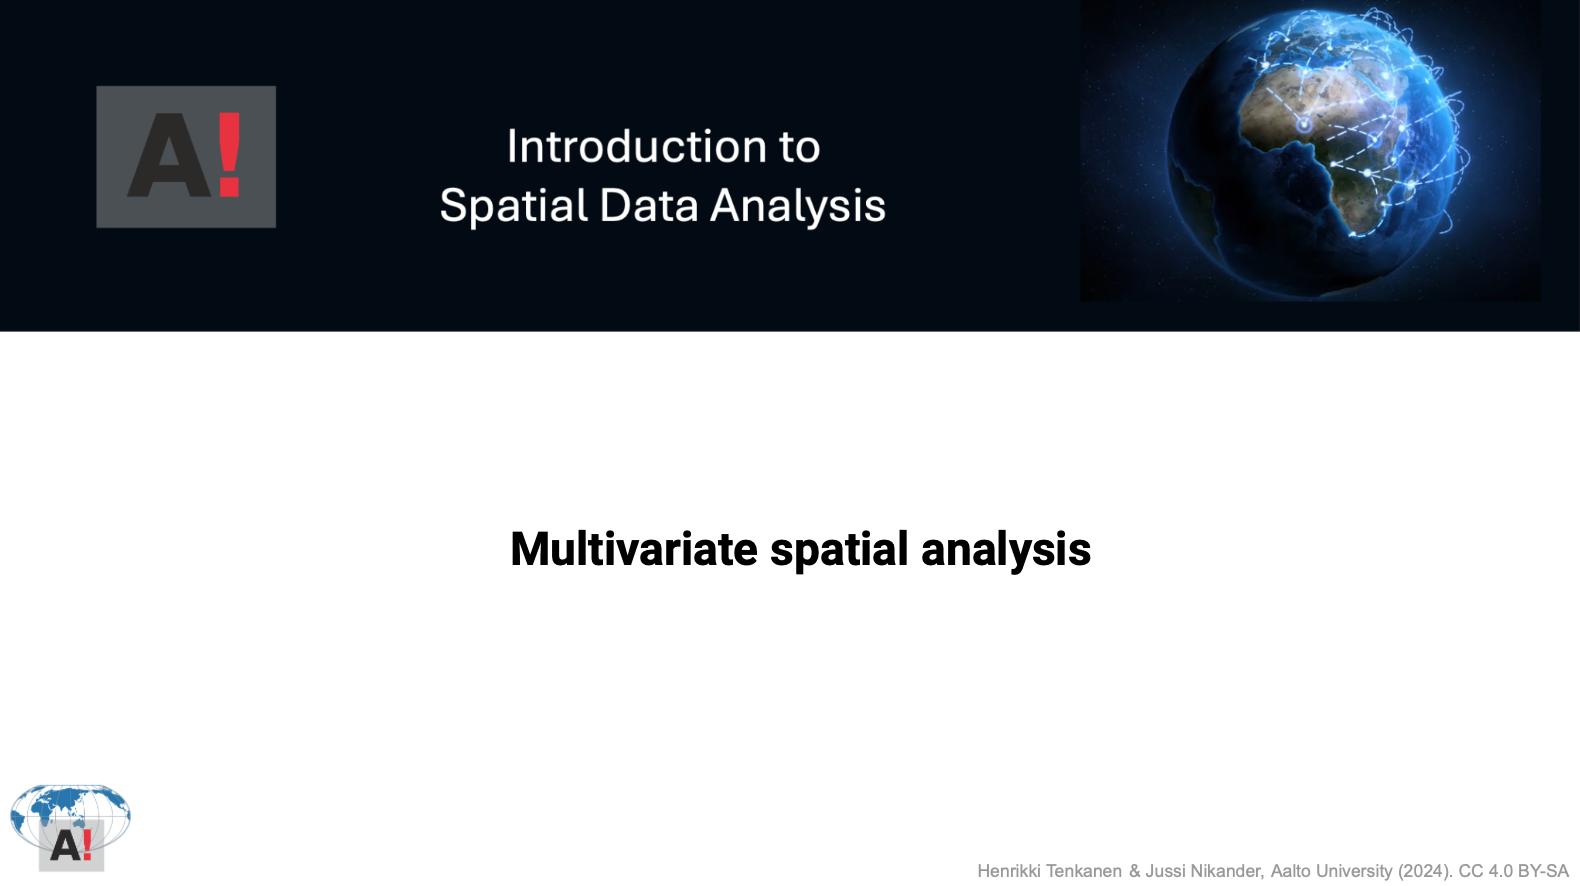
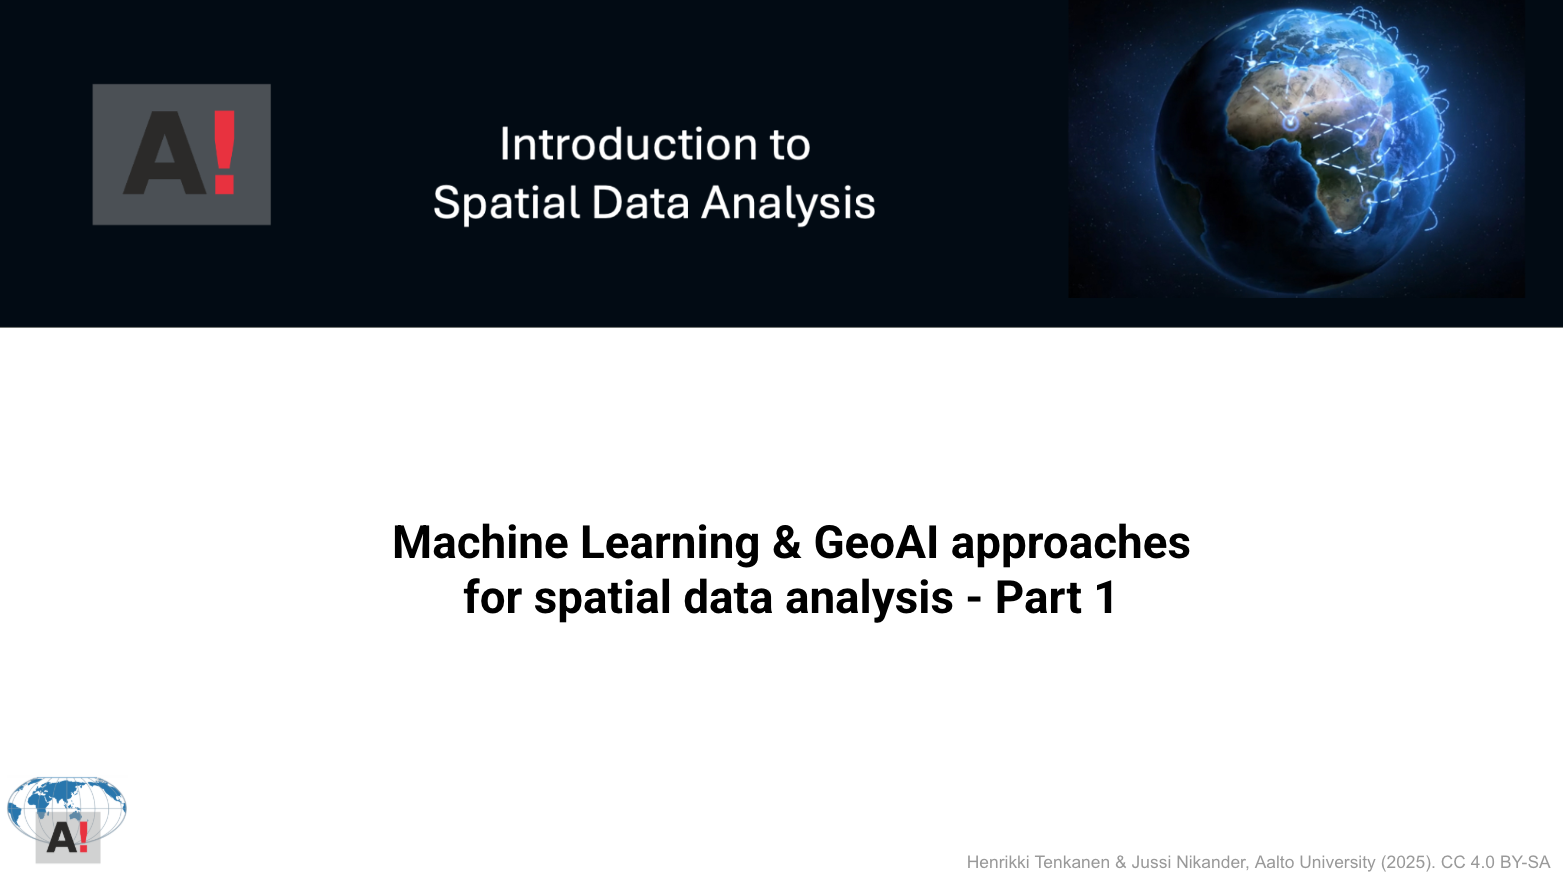
Add L10.1 video

diff --git a/source/lessons/L10/overview.rst b/source/lessons/L10/overview.rst
@@ -9,15 +9,16 @@ In this week, we will learn about:
 Lesson videos
 -------------
 
-To be added.
+.. admonition:: Lesson 10.1 - Machine Learning & GeoAI approaches for spatial data analysis (Part 1)
 
-.. .. admonition:: Lesson 10.1 - Machine Learning & GeoAI approaches for spatial data analysis (Part 1)
-        Aalto University students can access the video by clicking the image below (requires login):
-        .. figure:: img/Lesson10.1.png
-            :target: https://aalto.cloud.panopto.eu/Panopto/Pages/Viewer.aspx?id=8399c3bf-9aae-427e-bc41-b22c00b985f7
-            :width: 500px
-            :align: left
-    .. admonition:: Lesson 10.2 - Introduction to GeoAI
+    Aalto University students can access the video by clicking the image below (requires login):
+
+    .. figure:: img/Lesson10.1.png
+        :target: https://aalto.cloud.panopto.eu/Panopto/Pages/Viewer.aspx?id=a1562950-e4c6-4544-abcd-b39f00ba25fe
+        :width: 500px
+        :align: left
+
+..    .. admonition:: Lesson 10.2 - Introduction to GeoAI
         Aalto University students can access the video by clicking the image below (requires login):
         .. figure:: img/Lesson10.2.png
             :target: https://aalto.cloud.panopto.eu/Panopto/Pages/Viewer.aspx?id=6209da8c-d31a-4ad5-ac97-b22f00b97bc3
